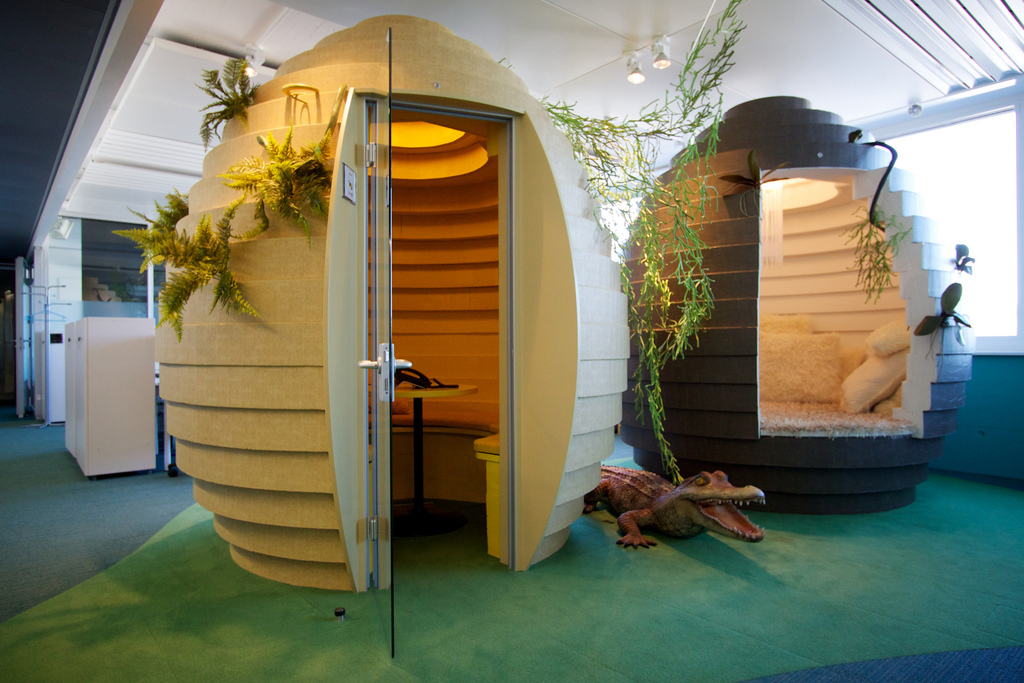
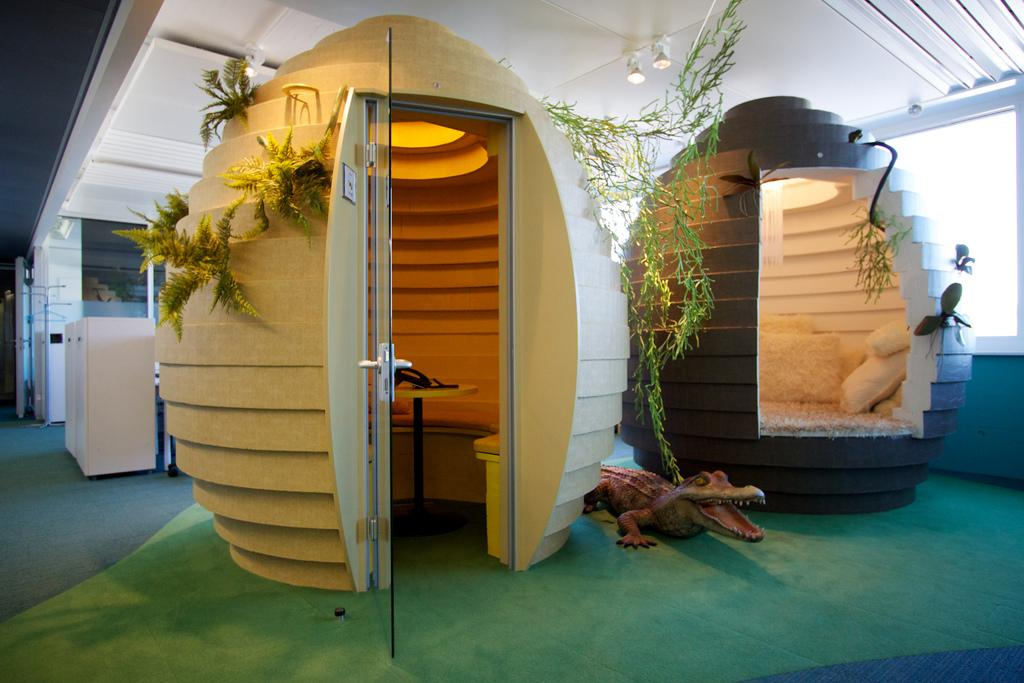
compress images and add thumbnails

diff --git a/index.html b/index.html
@@ -8,12 +8,10 @@
     <meta name="description" content="Touch-friendly image gallery for mobile">
     <meta name="author" content="Mikka Pineda">
     <title>Image Gallery</title>
-    <!-- Include manifest.json for behavior when PWA is 'installed' on device  -->
+    <!-- Include manifest.json for PWA when 'installed' on device  -->
     <link rel="manifest" href="/manifest.json">
-    <!-- Download Roboto font -->
-    <link href="https://fonts.googleapis.com/css?family=Roboto" rel="stylesheet">
-    <!-- Download style sheet -->
-    <link href="index.css" rel="stylesheet">
+    <!-- Add canonical link -->
+    <link rel="canonical" href="https://mobile-gallery.herokuapp.com/" />
     <!-- Add favicon -->
     <link rel="apple-touch-icon" sizes="57x57" href="favicon.ico/apple-icon-57x57.png">
     <link rel="apple-touch-icon" sizes="60x60" href="favicon.ico/apple-icon-60x60.png">
@@ -30,10 +28,36 @@
     <link rel="icon" type="image/png" sizes="16x16" href="favicon.ico/favicon-16x16.png">
     <meta name="msapplication-TileColor" content="#ffffff">
     <meta name="msapplication-TileImage" content="/ms-icon-144x144.png">
-    <meta name="theme-color" content="#ffffff">
+    <style>
+
+      body {
+        visibility: hidden;
+        opacity:0;
+      }
+
+      .login {
+        visibility: visible;
+        display: flex !important;
+        flex-direction: column;
+        width: 100%;
+        height: 100%;
+        margin: auto;
+        justify-content: center;
+        padding: 1rem;
+      }
+
+      .loginBtn {
+        width: 100%;
+        background-color: purple;
+        color: white;
+        padding: 1rem;
+        text-align: center;
+      }
+      
+    </style>
   </head>
   <body>
-    <form id="login" class="login show">
+    <form id="login" class="login">
       <input type="password" id="password" aria-label="password" autocomplete="password"/>
       <div id="loginBtn" class="loginBtn"><span>LOGIN</span></div>
     </form>
@@ -57,7 +81,30 @@
       </div>
       <div id="gallery" class="gallery"></div>
     </div>
+    
+    <noscript id="deferred-styles">
+      <link href="index.css" rel="stylesheet">
+    </noscript>
+
+    <script>
+      if('serviceWorker' in navigator) {
+        navigator.serviceWorker
+          .register('/service-worker.js')
+          .then(function() { console.log("Service Worker Registered"); });
+      }
+    </script>
+    
   </body>
-  <script type="module" src="index.js" ></script>
-  <script type="module" src="interactions.js"></script>
+  <script>
+    const loadDeferredStyles = () => {
+      const addStylesNode = document.getElementById("deferred-styles");
+      const replacement = document.createElement("DIV");
+      replacement.innerHTML = addStylesNode.textContent;
+      document.body.appendChild(replacement)
+      addStylesNode.parentElement.removeChild(addStylesNode);
+    };
+    window.addEventListener('load', loadDeferredStyles);
+  </script>
+  <script type="module" src="index.js" async></script>
+  <script type="module" src="interactions.js" async></script> 
 </html>

diff --git a/index.js b/index.js
@@ -1,8 +1,6 @@
 import {
   login,
   openSlideShow,
-  openSlide,
-  closeSlide,
   closeSlideShow,
   handleTouchStart,
   handleTouchMove,
@@ -12,14 +10,14 @@ import {
 // IMAGE ASSETS - to be replaced with API
 
 export const photos = [
-    {id: 1, url: 'images/air.jpg', name: 'air'},
-    {id: 2, url: 'images/desks.jpg', name: 'desks'},
-    {id: 3, url: 'images/hive.jpg', name: 'hive'},
-    {id: 4, url: 'images/logo.jpg', name: 'logo'},
-    {id: 5, url: 'images/lounge.jpg', name: 'lounge'},
-    {id: 6, url: 'images/lounge2.jpg', name: 'lounge2'},
-    {id: 7, url: 'images/mountainview.jpg', name: 'mountainview'},
-    {id: 8, url: 'images/racecar.jpg', name: 'racecar'}
+    {id: 1, url: 'images/air.jpg', thumb: 'images/thumbnails/S-air.jpg', name: 'air'},
+    {id: 2, url: 'images/desks.jpg', thumb: 'images/thumbnails/S-desks.jpg', name: 'desks'},
+    {id: 3, url: 'images/hive.jpg', thumb: 'images/thumbnails/S-hive.jpg', name: 'hive'},
+    {id: 4, url: 'images/logo.jpg', thumb: 'images/thumbnails/S-logo.jpg', name: 'logo'},
+    {id: 5, url: 'images/lounge.jpg', thumb: 'images/thumbnails/S-lounge.jpg', name: 'lounge'},
+    {id: 6, url: 'images/lounge2.jpg', thumb: 'images/thumbnails/S-lounge2.jpg', name: 'lounge2'},
+    {id: 7, url: 'images/mountainview.jpg', thumb: 'images/thumbnails/S-mountainview.jpg', name: 'mountainview'},
+    {id: 8, url: 'images/racecar.jpg', thumb: 'images/thumbnails/S-racecar.jpg', name: 'racecar'}
   ]
 
 // ESTABLISH REFERENCES
@@ -51,7 +49,7 @@ photos.forEach(photo => {
   thumbnail.className = 'thumbnail'
   thumbnail.id = `thumbnail_${photo.id}`
   thumbnail.title = photo.name
-  thumbnail.style.backgroundImage = 'url(' + photo.url + ')'
+  thumbnail.style.backgroundImage = 'url(' + photo.thumb + ')'
   thumbnail.onclick = (event) => { openSlideShow(event); }
   // add thumbnail to gallery fragment
   galleryFragment.appendChild(thumbnail)
@@ -78,8 +76,3 @@ photos.forEach(photo => {
   slideshowFragment.appendChild(slide)
 })
 document.getElementById('slideshow').appendChild(slideshowFragment)
-
-// for testing only
-
-document.getElementById('login').remove()
-document.getElementById('protected').classList.replace('hide', 'show')

diff --git a/index.css b/index.css
@@ -5,6 +5,8 @@
 }
 
 html, body {
+  visibility: visible;
+  opacity: 1;
   height: 100%;
   width: 100%;
   margin: 0;
@@ -64,23 +66,6 @@ h5 {
 
 /* COMPONENTS *******************/
 
-.login {
-  display: flex !important;
-  flex-direction: column;
-  width: 33%;
-  height: 100%;
-  margin: auto;
-  justify-content: center;
-}
-
-.loginBtn {
-  width: 100%;
-  background-color: purple;
-  color: white;
-  padding: 1rem;
-  text-align: center;
-}
-
 .header {
   display: block;
   position: fixed;
@@ -106,6 +91,16 @@ h5 {
   padding: 5.2rem 1rem 1rem;
 }
 
+.thumbnail {
+  display: block;
+  background-color: rgba(0,0,0,0);
+  background-size: cover;
+  background-repeat: no-repeat;
+  background-position: center;
+  width: 100%;
+  height: 100%;
+}
+
 .scrim {
   visibility: hidden;
   display: block;
@@ -116,16 +111,6 @@ h5 {
   position: fixed;
   top: 0;
   left: 0;
-}
-
-.thumbnail {
-  display: block;
-  background-color: rgba(0,0,0,0);
-  background-size: cover;
-  background-repeat: no-repeat;
-  background-position: center;
-  width: 100%;
-  height: 100%;
 }
 
 .slideshow {  
@@ -191,6 +176,16 @@ h5 {
   vertical-align: middle;
 }
 
+.show {
+  visibility: visible;
+  display: block;
+}
+
+.hide {
+  visibility: hidden;
+  display: none;
+}
+
 /* TRANSITIONS ****************/
 
 @keyframes bubble {
@@ -235,33 +230,14 @@ h5 {
   margin: 0;
 }
 
-.hide {
-  visibility: hidden;
-  display: none;
-}
-
-.show {
-  visibility: visible;
-  display: block;
-}
-
 /* MEDIA QUERIES ***************/
 
-@media only screen and (max-width: 800px) { /* TABLET */
+@media only screen and (min-width: 800px) { /* DESKTOP */
 
   .login {
-    width: 100%;
+    width: 33%;
     padding: 1rem;
   }
 
 }
-
-@media only screen and (max-width: 400px) { /* MOBILE - PORTRAIT */
-
-  .gallery {
-    grid-template-columns: repeat(auto-fill, minmax(100px, 1fr));
-  }
-
-}
-
 

diff --git a/service-worker.js b/service-worker.js
@@ -1,0 +1,16 @@
+const CACHE_NAME = "V1"
+
+// The install event is fired when the registration succeeds
+this.addEventListener('install', async function() {
+    const cache = await caches.open(CACHE_NAME);
+    cache.addAll([
+        '/index.html',
+        '/index.css',
+        '/index.js',
+    ])
+})
+
+// The fetch event is fired every time the browser sends a request 
+self.addEventListener('fetch', function(event) {
+    console.log(event.request.url);
+});
